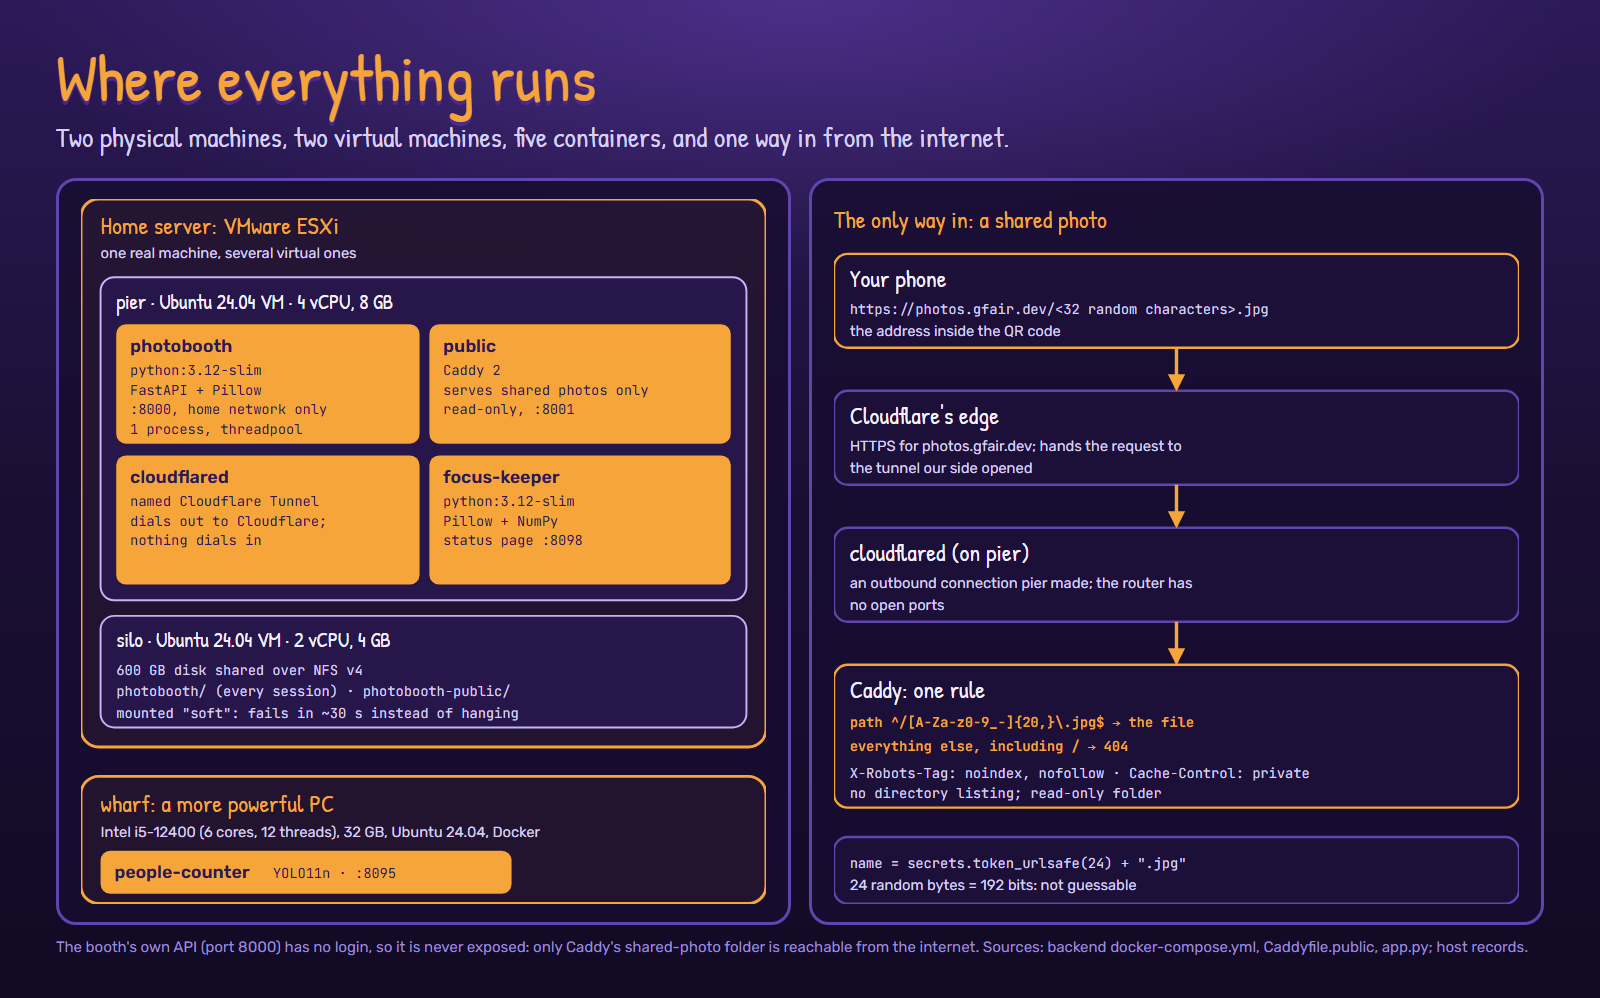
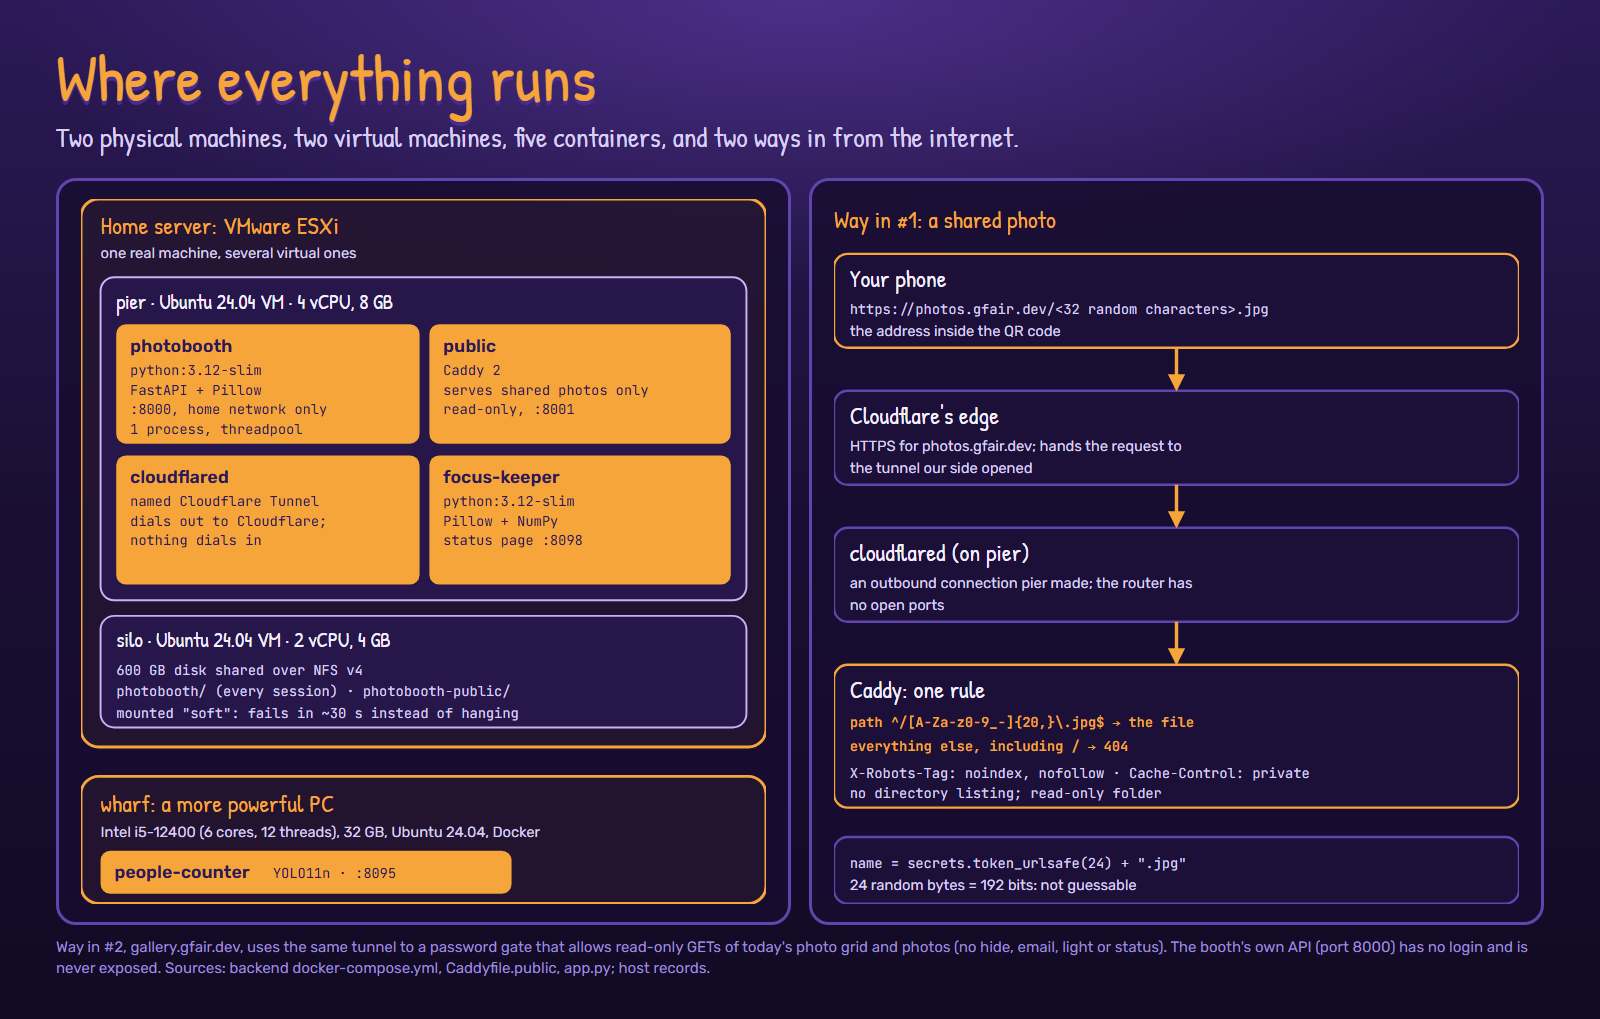
Document gallery.gfair.dev, the owner gallery
Second way in through the tunnel: a password gate with read-only access to the day of
photos, for helping guests get their photo and watching what the gallery screen shows.

Changed region(s): [[0.0312, 0.0621, 0.9688, 0.9629]]

diff --git a/photo-booth/deep-dive/where-it-runs.md b/photo-booth/deep-dive/where-it-runs.md
@@ -1,7 +1,7 @@
 # Deep dive: where everything runs
 
-Two physical machines, two virtual machines, five containers, and one way in from the
-internet.
+Two physical machines, two virtual machines, five containers, and two ways in from the
+internet: shared photos for guests, and a password-protected gallery for us.
 ([Back to the deep dive](README.md))
 
 ![Where everything runs](hosting.png)
@@ -33,7 +33,7 @@ time.
 
 All of them restart automatically (`restart: unless-stopped`).
 
-## The only way in
+## Way in #1: a shared photo
 
 A shared photo's link looks like `https://photos.gfair.dev/<32 random characters>.jpg`.
 
@@ -48,13 +48,39 @@ A shared photo's link looks like `https://photos.gfair.dev/<32 random characters
 4. The names come from `secrets.token_urlsafe(24)`: 192 random bits, so they can't be
    guessed or enumerated.
 
-The booth's own API (port 8000) has no login, so it is never exposed. That includes the
-photos page for phones on the home Wi-Fi, which lists every photo of the day.
+## Way in #2: the owner's gallery
+
+`https://gallery.gfair.dev` comes in through the same tunnel to a second, separate Caddy
+gate. It's how we look after the night from a phone, anywhere:
+
+- **Helping someone get their photo.** If a guest's QR scan or email didn't work, we find
+  their photo in today's grid, open it full size, and share it from the phone.
+- **Keeping an eye on the gallery screen.** It's the same list the self-service gallery
+  screen loops, so an accidentally offensive photo is easy to spot. Removing one is done
+  with the Hide button on the photos page on the home network: it moves the session to an
+  archive (nothing is deleted), so it drops off the gallery screen and the grid.
+
+How the gate works:
+
+- One shared password, no username. The login page stores it in a cookie; Caddy compares
+  the cookie with the password from its environment. It's deliberately simple: it keeps the
+  photos off the open internet, but it isn't real authentication.
+- Once in, only `GET` and `HEAD` on `/photos`, `/today`, `/thumb/*`, `/final/*` and the
+  font are passed to the booth app, with the cookie stripped and an `X-Gallery-Public: 1`
+  header. The app then serves its photos page without the status bar and Hide buttons.
+- Everything else (the camera, email, the light, hiding, status) is a 404, and every
+  response carries `X-Robots-Tag: noindex, nofollow` and `Referrer-Policy: no-referrer`.
+
+The booth's own API (port 8000) has no login, so it is never exposed directly; only these
+two gates are. That includes the photos page for phones on the home Wi-Fi, with its Hide
+buttons.
 
 ## Privacy, precisely
 
 - Photos are kept on our own storage (silo). Shared copies can only be reached with their
   exact link.
+- Today's photos can also be browsed at gallery.gfair.dev, behind our password, so we can
+  help guests get their photo and keep the gallery screen tidy.
 - The app never saves your email address. The account that sends the email keeps the sent
   message, like any sent mail.
 - The people counter keeps a small (200 px) picture of each person it counts, on the home
@@ -62,3 +88,4 @@ photos page for phones on the home Wi-Fi, which lists every photo of the day.
   names.
 - The start screen and the how-to poster say that photos are saved and that a second camera
   photographs the booth area.
+

diff --git a/photo-booth/README.md b/photo-booth/README.md
@@ -42,7 +42,7 @@ code and real measurements.
 | [One photo, start to finish](deep-dive/one-photo.md) | every message with its timeout, the backend API, how the finished photo's layers are built, what's saved, email, what happens when something is down |
 | [The people counter](deep-dive/people-counter.md) | 4K stream → YOLO11n → ByteTrack, counting someone once, the benchmark surprise, what it stores, honest limits |
 | [focus-keeper](deep-dive/focus-keeper.md) | the control loop, the Laplacian sharpness score, the sweep, real day and night data |
-| [Where everything runs](deep-dive/where-it-runs.md) | VMs vs containers, the only way in from the internet, privacy precisely |
+| [Where everything runs](deep-dive/where-it-runs.md) | VMs vs containers, the two ways in from the internet (shared photos and the owner's gallery), privacy precisely |
 
 ## The parts
 
